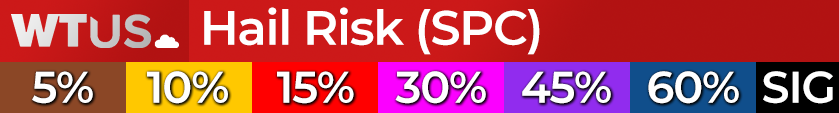
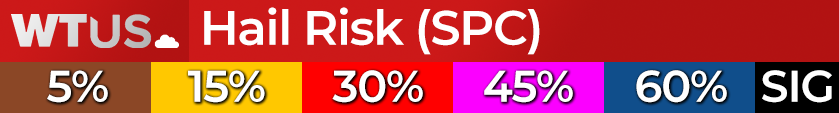
Header Fix, Day 3 Probabilistic Addition

Changed region(s): [[0.031, 0.531, 1.0, 1.0]]

diff --git a/Severe_Weather_Outlook_Display.py b/Severe_Weather_Outlook_Display.py
@@ -153,6 +153,19 @@ def fetch_d48_outlooks(day):
     outlook_data = response.json()
     return outlook_data # Returns the data from the outlook
 
+def fetch_prob_outlooks(day):
+    log.info('Fetching a Probabilistic Outlook')
+    if day == 3:
+        url = 'https://www.spc.noaa.gov/products/outlook/day3otlk_prob.lyr.geojson'
+    else: 
+        log.error(f'Invalid Date. Day = {day}. Error on line 123')
+        popup('error', 'Invalid Day', "An error has occured where the day wasn't read correctly. The program will now quit.")
+        sys.exit(0)
+    response = requests.get(url)
+    response.raise_for_status()
+    outlook_data = response.json()
+    return outlook_data # Returns the data from the outlook
+
 # Function to create the output directory
 def create_output_directory(current_directory):
     log.info('running create_output_directory')
@@ -219,6 +232,8 @@ def add_overlays(ax, current_directory, type):
         header_img = plt.imread(os.path.join(current_directory, 'wtus_hail_header.png'))
     elif type == 'd4-8':
         header_img = plt.imread(os.path.join(current_directory, 'wtus_d48_header.png'))
+    elif type == 'prob':
+        header_img = plt.imread(os.path.join(current_directory, 'wtus_prob_header.png'))
     else:
         log.error(f"There was an error getting the {type} header. Error on line 199.")
         popup('error', 'Header Error', 'An error has occured getting the header image. The program will now quit.')
@@ -327,6 +342,27 @@ def plot_outlook_polygons(ax, outlook_data, type):
             for polygon in outlook_polygon: # Find the properties of each polygon
                 x, y = zip(*polygon[0])
                 ax.add_patch(mpatches.Polygon(list(zip(x, y)), alpha=0.5, ec='k', lw=1, fc=color('d4-8', outlook_type)))
+    elif type == 'prob':
+        for feature in outlook_data['features']:
+            outlook_type = feature['properties']['LABEL']
+            outlook_polygon = feature['geometry']['coordinates']
+            if feature['geometry']['type'] == 'Polygon':
+                outlook_polygon = [outlook_polygon]  # Convert single polygon to a list for consistency
+                for polygon in outlook_polygon: # Find the properties of each polygon
+                    x, y = zip(*polygon[0])
+                    if outlook_type == 'SIGN':  # Add hatching for 'SIGN' outlook type
+                        ax.add_patch(mpatches.Polygon(list(zip(x, y)), alpha=0.2, ec='k', lw=1, fc=color('prob', outlook_type), edgecolor='black', hatch='x'))
+                    else:
+                        ax.add_patch(mpatches.Polygon(list(zip(x, y)), alpha=0.5, ec='k', lw=1, fc=color('prob', outlook_type)))
+            elif feature['geometry']['type'] == 'MultiPolygon':
+                outlook_polygon = [outlook_polygon]  # Convert single polygon to a list for consistency
+                for multipolygon in outlook_polygon: # Find the properties of each polygon
+                    for polygon in multipolygon:
+                        x, y = zip(*polygon[0])
+                        if outlook_type == 'SIGN':  # Add hatching for 'SIGN' outlook type
+                            ax.add_patch(mpatches.Polygon(list(zip(x, y)), alpha=0.2, ec='k', lw=1, fc=color('prob', outlook_type), edgecolor='black', hatch='x'))
+                        else:
+                            ax.add_patch(mpatches.Polygon(list(zip(x, y)), alpha=0.5, ec='k', lw=1, fc=color('prob', outlook_type)))
     else:
         log.error(f"There was an error plotting the {type} outlook. Error on line 331.")
         popup('error', 'Plotting Error', 'An error has occured plotting the outlook. The program will now quit.')
@@ -553,6 +589,54 @@ def display_d48_outlook(day, outlook_data):
 
     output_directory = create_output_directory(current_directory)
     output_filename = f'spc_day_{day}_outlook.png'
+    output_path = os.path.join(output_directory, output_filename)
+
+    for widget in root.winfo_children():
+        widget.destroy()
+
+    # Create a canvas and add it to the root window
+    canvas = FigureCanvasTkAgg(fig, master=root)
+    canvas.draw()
+    canvas.get_tk_widget().pack(side=tk.TOP, fill=tk.BOTH, expand=1)
+
+    # Create a custom toolbar with a close button
+    toolbar = NavigationToolbar2Tk(canvas, root)
+    toolbar.update()
+
+    def close_figure():
+        plt.close(fig)
+        root.withdraw()
+        start_gui()
+
+    close_button = tk.Button(toolbar, text='Close', command=close_figure)
+    close_button.pack(side=tk.RIGHT)
+
+    root.protocol("WM_DELETE_WINDOW", close_figure)
+
+    # Show the Tkinter root window with the canvas and toolbar
+    root.deiconify()
+    root.mainloop()
+
+    log.info('Showing the plot')
+    plt.savefig(output_path, dpi=96, bbox_inches='tight')
+
+def display_prob_outlook(day, outlook_data):
+    log.info('Displaying Probabilistic Outlook')
+    fig, ax = setup_plot()
+
+    # Clear the figure and axes before displaying a new outlook
+    fig.clear()
+    ax = fig.add_subplot(111)
+
+    add_overlays(ax, current_directory, 'prob')
+    set_plot_limits(ax)
+    add_basemap(ax)
+    remove_axes_labels_boxes_title(ax)
+
+    plot_outlook_polygons(ax, outlook_data, 'prob')
+
+    output_directory = create_output_directory(current_directory)
+    output_filename = f'spc_day_{day}_prob_outlook.png'
     output_path = os.path.join(output_directory, output_filename)
 
     for widget in root.winfo_children():
@@ -904,10 +988,6 @@ def run(type, day):
             popup('info', 'Program is Running', 'The Severe Weather Outlook Display is now running. The program may take some time to load so be paitent. Click "Ok" or Close the Window to Continue')
             instance = 1
         display_hail_outlook(day, outlook_data)
-    elif type == 'prob':
-        log.info(f'Future Outlook Detected (Day {day} {type})')
-        popup('info', 'Coming Soon', 'This feature is not ready yet. Keep an eye out for new updates!')
-        start_gui()
     elif type == 'd4-8':
         outlook_data = fetch_d48_outlooks(day)
         if not check_outlook_availability(outlook_data):
@@ -917,6 +997,15 @@ def run(type, day):
             popup('info', 'Program is Running', 'The Severe Weather Outlook Display is now running. The program may take some time to load so be paitent. Click "Ok" or Close the Window to Continue')
             instance = 1
         display_d48_outlook(day, outlook_data)
+    elif type == 'prob':
+        outlook_data = fetch_prob_outlooks(day)
+        if not check_outlook_availability(outlook_data):
+            no_outlook_available()
+            start_gui()
+        if instance == 0:
+            popup('info', 'Program is Running', 'The Severe Weather Outlook Display is now running. The program may take some time to load so be paitent. Click "Ok" or Close the Window to Continue')
+            instance = 1
+        display_prob_outlook(day, outlook_data)
     else:
         log.error(f'Invalid Outlook Type. Outlook Type = {type}')
         popup('error', 'Invalid Outlook Type', "An error has occured where the outlook type wasn't read correctly. The program will now quit.")
